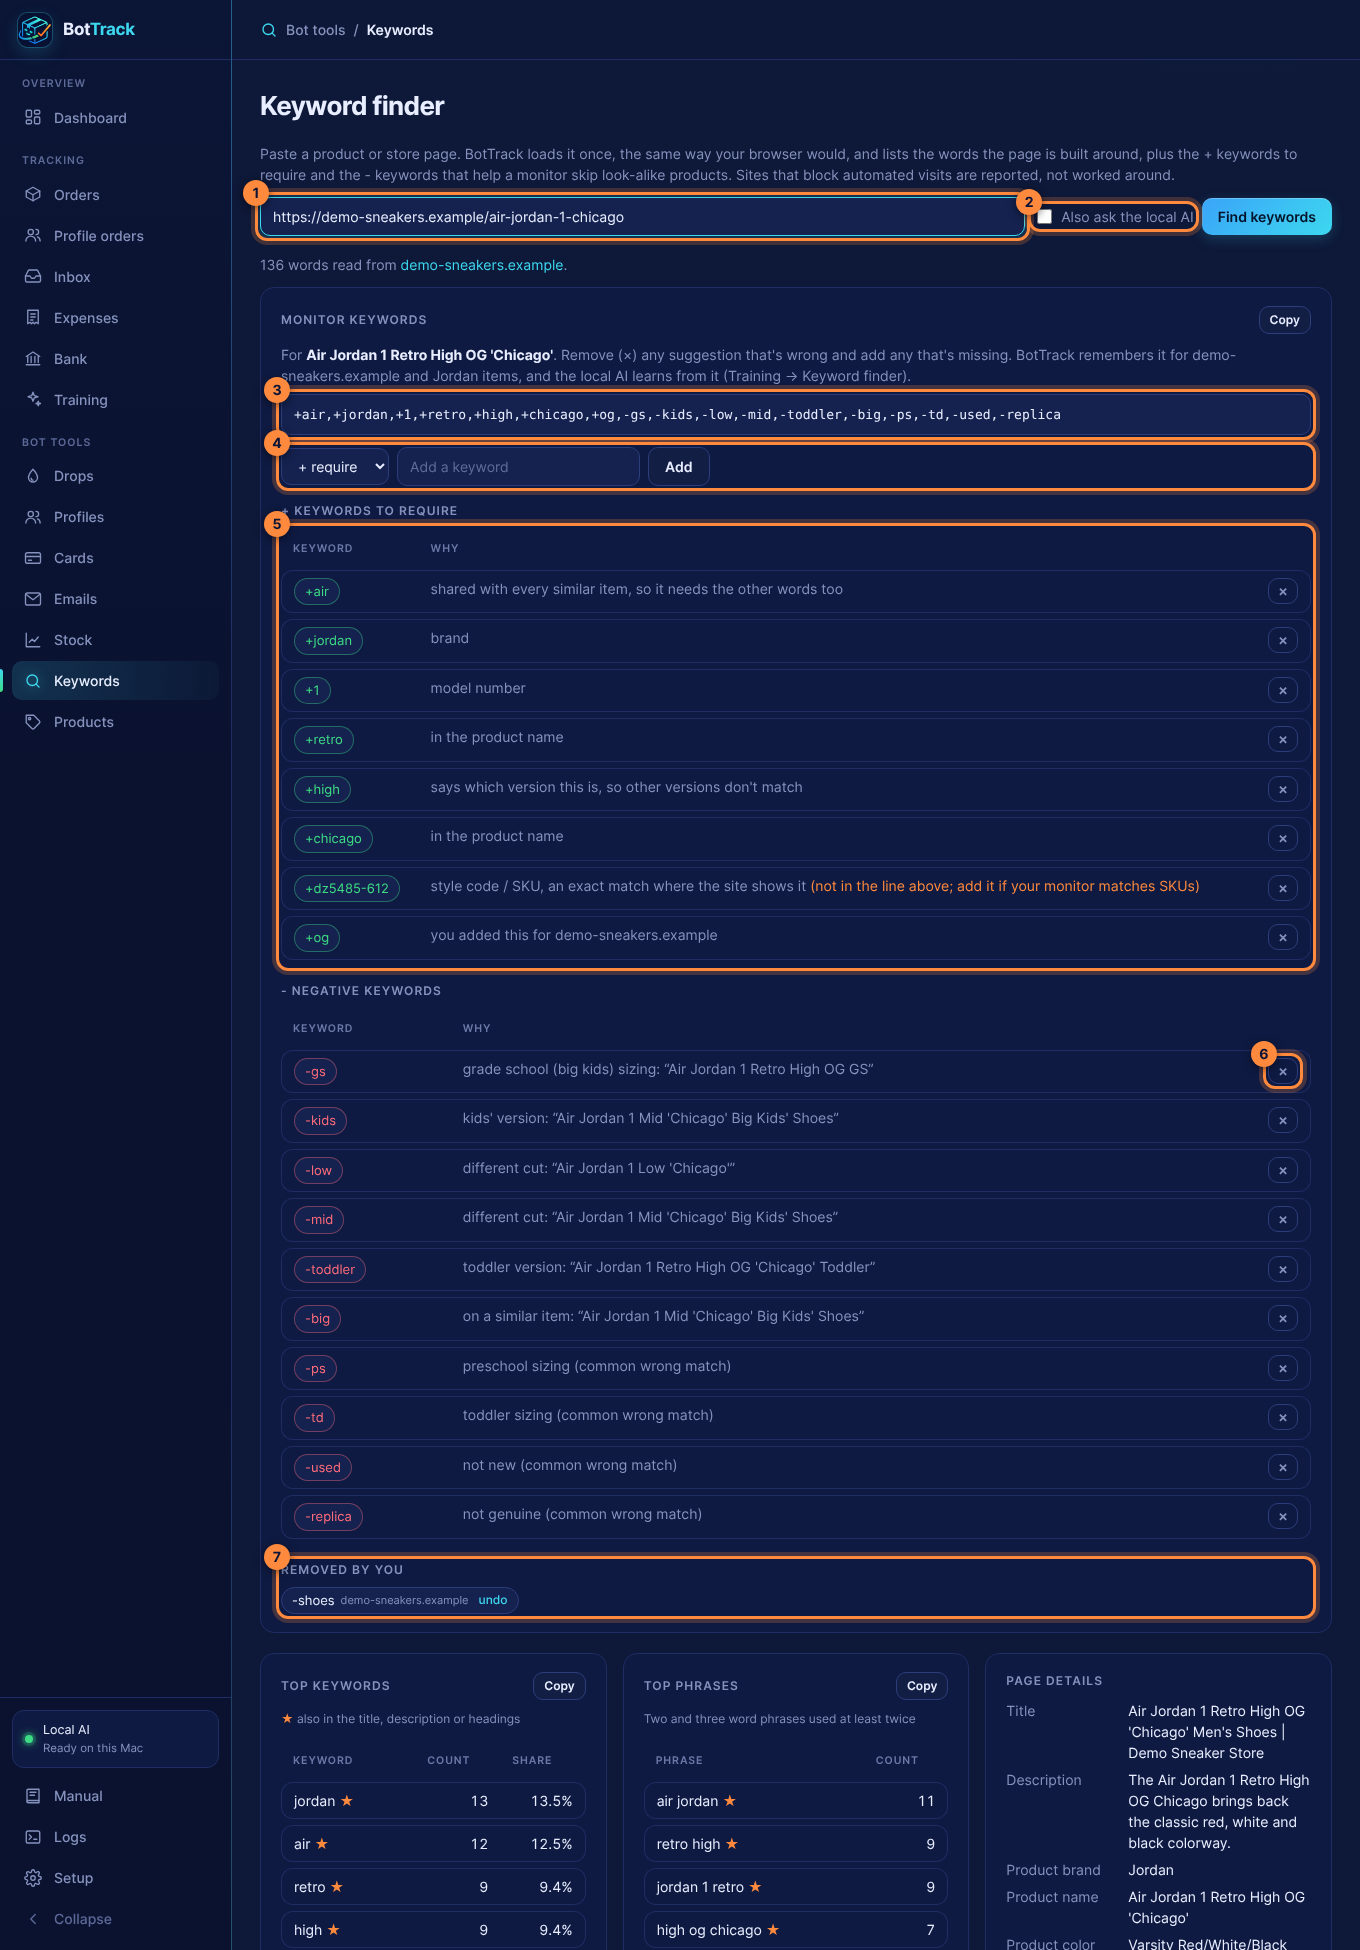
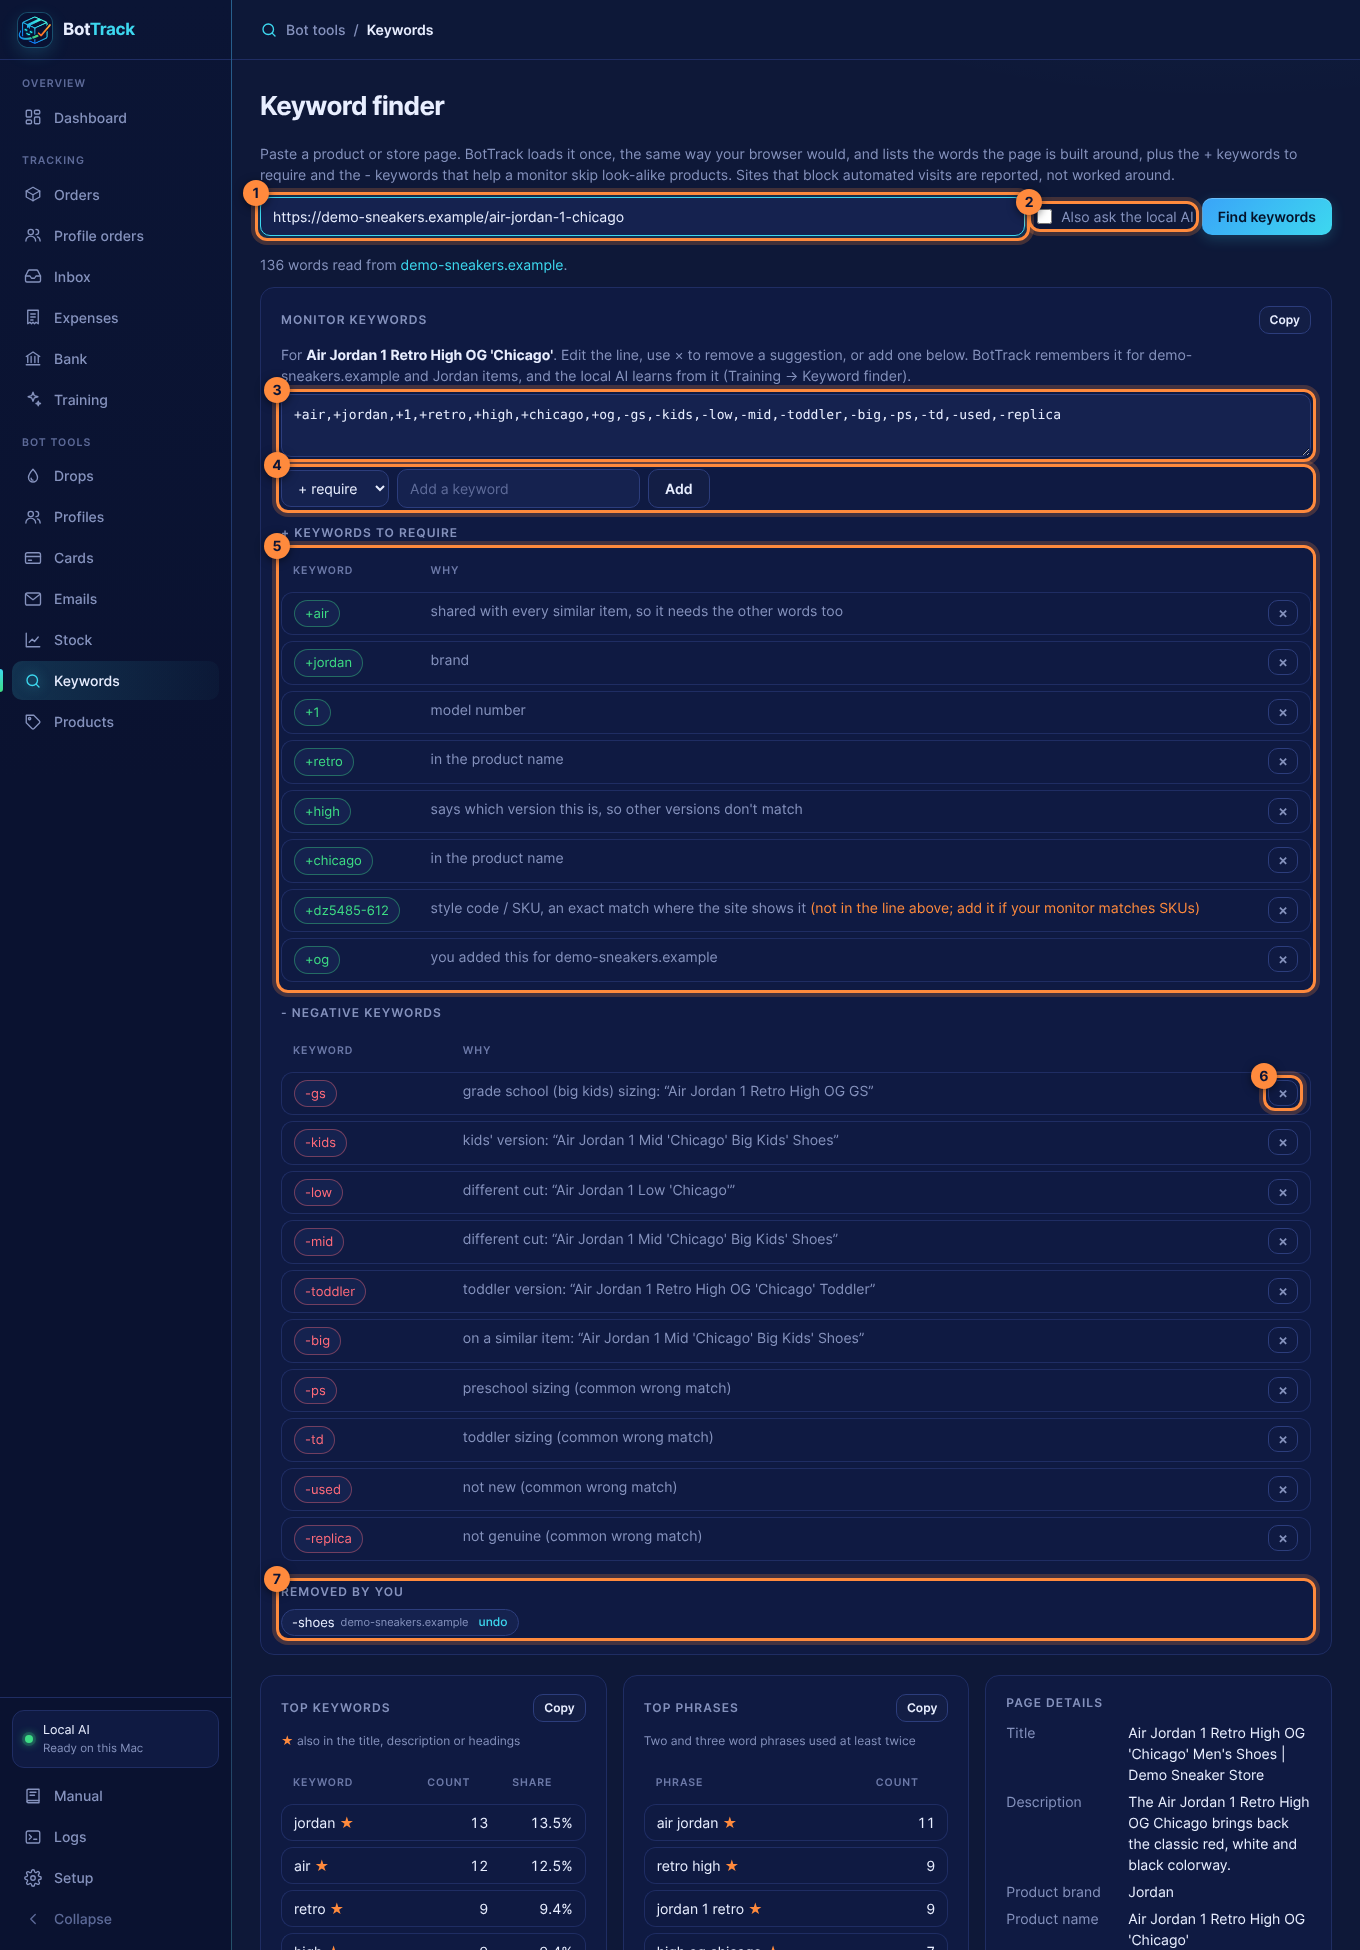
Manual: the Monitor keywords line can be edited (#52)
Claude-Session: https://claude.ai/code/session_015JMPhXTT3UTxzxB63oGw74

diff --git a/jigstream/templates/manual.html b/jigstream/templates/manual.html
@@ -445,13 +445,14 @@ low-top version of the same shoe. It reads only the product itself, not the menu
 <ol class="steps">
 <li>Copy the product page's address from your browser.</li>
 <li>Paste it into the box and press <span class="ui">Find keywords</span>.</li>
-<li>Fix the lists: press <b>×</b> on anything wrong, and add anything missing.</li>
+<li>Fix the keywords: press <b>×</b> on anything wrong and add anything missing, or edit the <b>Monitor keywords</b> line itself
+(delete a keyword, or type one in like <code>-slime</code>) and press Enter.</li>
 <li>Press <span class="ui">Copy</span> next to <b>Monitor keywords</b> and paste the line into your monitor.</li>
 </ol>
 {{ fig("keywords", "The Keyword finder with a sample page.", [
   "Paste the product or store page's address here.",
   "Also ask the local AI: the AI on your Mac adds its own + and - suggestions to the lists, marked “local AI”. It takes a little longer.",
-  "Monitor keywords: the ready-made line of +keywords and -negatives. It updates as you change the lists. Copy puts it on your clipboard.",
+  "Monitor keywords: the ready-made line of +keywords and -negatives, separated by commas. You can type in it: delete a keyword or add one (like -slime), then press Enter or click away, and the lists below and your saved rules change to match. Copy puts it on your clipboard.",
   "Add a keyword: choose + require or - exclude, type the word, and press Add.",
   "+ Keywords to require, each with the reason it was suggested. A style code or SKU is listed but left out of the line; add it if your monitor matches SKUs.",
   "× removes a suggestion that's wrong. The - negative keywords below work the same way.",
